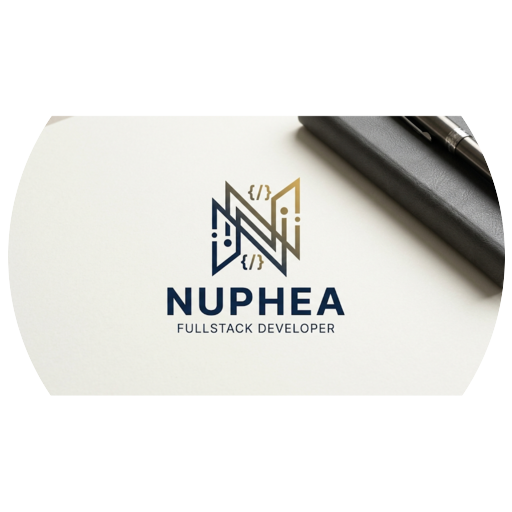
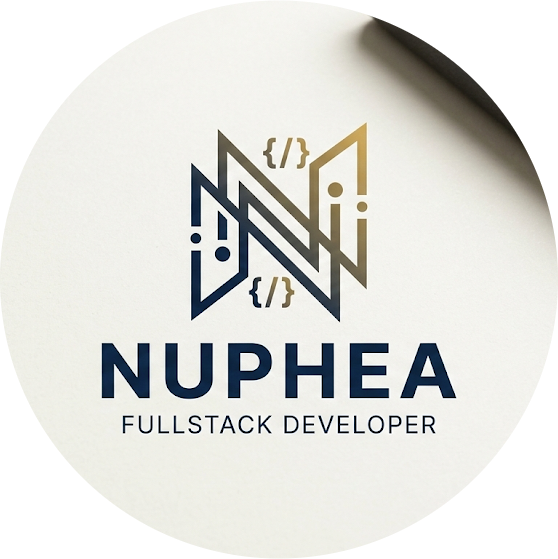
update tab image

diff --git a/app/layout.tsx b/app/layout.tsx
@@ -18,8 +18,11 @@ export const metadata: Metadata = {
   title: "Nuphea | Fullstack Developer",
   description: "Experience with Node.js, TypeScript, PostgreSQL, and MongoDB.",
   icons: {
-    icon: "/icon.png",
-    shortcut: "/icon.png",
+    icon: [
+      { url: "/favicon.ico", sizes: "any" },
+      { url: "/icon.png", type: "image/png" },
+    ],
+    shortcut: "/favicon.ico",
     apple: "/icon.png",
   },
 }

diff --git a/components/header.tsx b/components/header.tsx
@@ -19,7 +19,7 @@ export default function Header() {
     <header className="fixed top-0 w-full bg-background/80 backdrop-blur-md z-50 border-b border-border">
       <nav className="max-w-6xl mx-auto px-4 sm:px-6 lg:px-8 py-4 flex items-center justify-between">
         <a href="#" className="text-2xl font-bold text-primary">
-          No name
+          Portfolio 
         </a>
 
         {/* Desktop Navigation */}